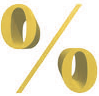
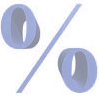
+ new style +counter

diff --git a/AStwoD-Project/AStwoD/Content/css/global.css b/AStwoD-Project/AStwoD/Content/css/global.css
@@ -34,7 +34,7 @@ html, body {
 .action {
     margin-left: 40px;
     margin-right: 40px;
-    background: #d6970a url(/Content/img/kaspersky.png) right bottom no-repeat;
+    background: #7991c8 url(/Content/img/kaspersky.png) right bottom no-repeat;
     height: 105px;
     font-family: 'Ubuntu', sans-serif;
     font-weight: 500;
@@ -72,7 +72,7 @@ html, body {
 
 h1 {
     margin: 5px 0 0 0;
-    color: #d6970a;
+    color: #7991c8;
     font-size: 1.6em;
     line-height: 1em;
     font-weight: 500;
@@ -81,7 +81,7 @@ h1 {
 
 h2 {
     margin: 5px 0 0 0;
-    color: #d6970a;
+    color: #7991c8;
     font-size: 1.4em;
     line-height: 1em;
     font-weight: 500;
@@ -89,7 +89,7 @@ h2 {
 
 h3, .h3 {
     margin: 5px 0 0 0;
-    color: #d6970a;
+    color: #7991c8;
     font-size: 1.2em;
     line-height: 1em;
     font-weight: 500;
@@ -129,7 +129,7 @@ span.nobr {
 
 #container .separatorLineGreenGray {
     background: url(/Content/img/separatorLineGreenGray.png) no-repeat;
-    height: 15px;
+    height: 14px;
     width: 959px;
 }
 
@@ -242,7 +242,7 @@ span.nobr {
     margin: 0 0 0 40px;
     position: relative;
     top: -41px;
-    background: #d6970a url(/Content/img/headerMenuBorderRight.png) right no-repeat;
+    background: #7991c8 url(/Content/img/headerMenuBorderRight.png) right no-repeat;
     padding: 0 10px 0 10px;
 }
 
@@ -449,7 +449,7 @@ span.nobr {
     font-weight: 500;
     line-height: 1em;
     text-align: right;
-    color: #d6970a;
+    color: #7991c8;
     float: left
 }
 
@@ -482,7 +482,7 @@ span.nobr {
 #container .contentRightSidebar .contentRightSidebarMainService .contentRightSidebarMainServiceTitle {
     text-align: center;
     font-weight: 500;
-    color: #d6970a;
+    color: #7991c8;
     font-size: 1.2em;
 }
 
@@ -590,7 +590,7 @@ span.nobr {
 }
 
 #container .contentRightSidebar .contentRightSidebarText .contentRightSidebarTable td {
-    color: #d6970a;
+    color: #7991c8;
     font-weight: 700;
     padding: 8px 20px 0 20px;
     text-align: right;
@@ -707,7 +707,7 @@ span.nobr {
 
 #container .contentRightSidebar .contentRightSidebarText .contentRightSidebarTabsSub a.active {
     color: #FFF;
-    background: #d6970a
+    background: #7991c8
 }
 
 #container .contentRightSidebar .contentRightSidebarText .contentRightSidebarTabsSub a.active:hover {
@@ -768,12 +768,12 @@ span.nobr {
     padding: 2px 5px;
     margin: 0 0 0 2px;
     background: #EBEBEB;
-    color: #d6970a
+    color: #7991c8
 }
 
 #container .contentRightSidebar .contentRightSidebarText .pagination a.active {
     color: #FFFFFF;
-    background: #d6970a
+    background: #7991c8
 }
 
 #container .contentRightSidebar .contentRightSidebarText table.contacts {
@@ -855,7 +855,7 @@ span.nobr {
 }
 
 #container .contentRightSidebarTabbedPrice .city span {
-    background: #d6970a;
+    background: #7991c8;
     padding: 5px 10px;
     color: #ffffff;
     margin-right: 1px;
@@ -913,7 +913,7 @@ span.nobr {
 
 #container .contentLeftSidebar .contentLeftSidebarKeyServices {
     width: 206px;
-    background: #d6970a;
+    background: #7991c8;
 }
 
 #container .contentLeftSidebar .contentLeftSidebarKeyServices .contentLeftSidebarKeyServicesItems div {
@@ -928,7 +928,7 @@ span.nobr {
     border-bottom: none;
     display: block;
     padding: 4px 10px 4px 10px;
-    background: #d6970a;
+    background: #7991c8;
 }
 
 #container .contentLeftSidebar .contentLeftSidebarKeyServices .contentLeftSidebarKeyServicesItems div a:hover, #container .contentLeftSidebar .contentLeftSidebarKeyServices .contentLeftSidebarKeyServicesItems div a.active {
@@ -1035,7 +1035,7 @@ span.nobr {
 }
 
 #container .footer .footerPress .footerPressEvents .footerPressEventText a:hover {
-    color: #d6970a;
+    color: #7991c8;
     text-decoration: underline;
     border-bottom: none;
 }
@@ -1062,7 +1062,7 @@ span.nobr {
 }
 
 #container .footer .footerLinksBlock {
-    background: #d6970a;
+    background: #7991c8;
     padding: 20px 40px;
 }
 
@@ -1125,7 +1125,7 @@ span.nobr {
 }
 
 #container .footer .footerCopyright a {
-    color: #d6970a;
+    color: #7991c8;
     border-bottom: none;
     text-decoration: none;
 }
@@ -1134,3 +1134,6 @@ span.nobr {
     text-decoration: underline;
 }
 
+.footerCopyright #counter{
+    float:left;
+}
